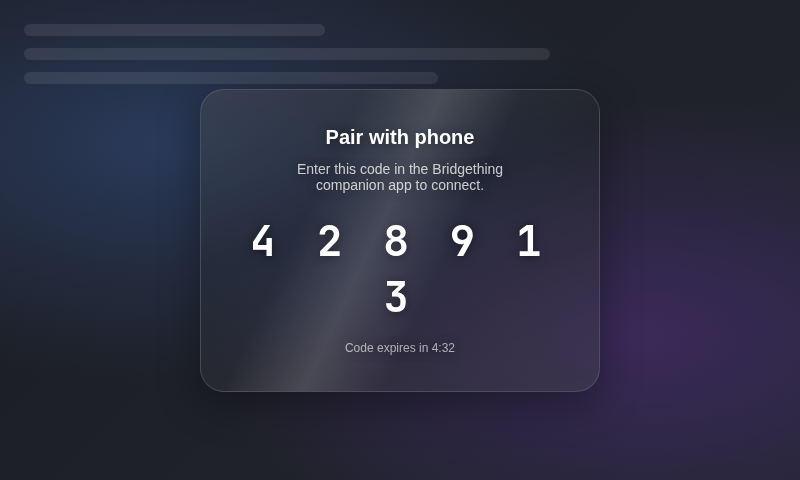
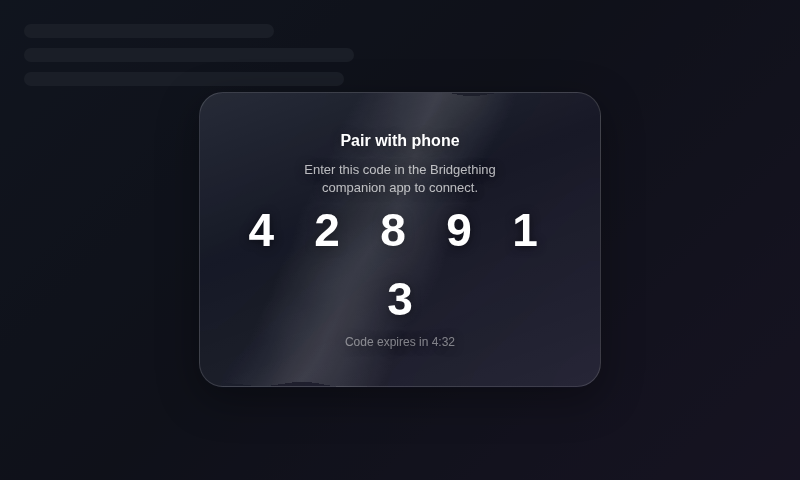
Glassy Overlay 0.3.40: real frosted glass, background determines color

diff --git a/apps/glass-overlay/overlay/style.css b/apps/glass-overlay/overlay/style.css
@@ -15,20 +15,21 @@
    @property var that stays unset in the shadow root, rendering no border) */
 .forecast-box { border: 1px solid rgb(255 255 255 / 0.12); }
 
-/* liquid glass: Finch HUD recipe — 160° white gradient over a fill whose
-   opacity grows with the frostiness level (transparency decreases as
-   frostiness goes up), hairline border, and specular sheen (::after)
-   warped by the #fx-glass-wobble SVG filter injected into the shadow root
-   at boot. No backdrop blur. Intensity comes from CSS custom properties
-   set on the overlay root container by the frostiness setting; the
-   fallbacks below are the Frosted (2) look. Plain var() only — never
-   @property (see note above). */
+/* liquid glass: real frosted glass — backdrop blur diffuses the background
+   and the blurred background itself determines the color (no tint wash);
+   a slight brightness lift keeps it airy. 160° white gradient, hairline
+   border, and specular sheen (::after) warped by the #fx-glass-wobble SVG
+   filter injected into the shadow root at boot. Intensity comes from CSS
+   custom properties set on the overlay root container by the frostiness
+   setting; the fallbacks below are the Frosted (2) look. Plain var() only
+   — never @property (see note above). */
 .glass-card {
   position: relative;
   overflow: hidden;
+  -webkit-backdrop-filter: blur(var(--glass-blur, 20px)) brightness(var(--glass-bright, 1.08)) saturate(1.4);
+  backdrop-filter: blur(var(--glass-blur, 20px)) brightness(var(--glass-bright, 1.08)) saturate(1.4);
   background:
-    linear-gradient(160deg, rgb(255 255 255 / var(--glass-sheen, 0.10)), rgb(255 255 255 / calc(var(--glass-sheen, 0.10) * 0.3)) 40%, rgb(255 255 255 / calc(var(--glass-sheen, 0.10) * 0.8))),
-    rgb(18 20 26 / var(--glass-fill, 0.30));
+    linear-gradient(160deg, rgb(255 255 255 / var(--glass-sheen, 0.10)), rgb(255 255 255 / calc(var(--glass-sheen, 0.10) * 0.3)) 40%, rgb(255 255 255 / calc(var(--glass-sheen, 0.10) * 0.8)));
   border: 1px solid rgb(255 255 255 / var(--glass-border, 0.14));
   box-shadow: 0 12px 40px rgb(0 0 0 / 0.35);
   text-shadow: 0 1px 10px rgb(0 0 0 / 0.55);
@@ -37,9 +38,10 @@
 .glass-pill {
   position: relative;
   overflow: hidden;
+  -webkit-backdrop-filter: blur(var(--glass-blur, 20px)) brightness(var(--glass-bright, 1.08)) saturate(1.4);
+  backdrop-filter: blur(var(--glass-blur, 20px)) brightness(var(--glass-bright, 1.08)) saturate(1.4);
   background:
-    linear-gradient(160deg, rgb(255 255 255 / var(--glass-sheen, 0.10)), rgb(255 255 255 / calc(var(--glass-sheen, 0.10) * 0.3)) 40%, rgb(255 255 255 / calc(var(--glass-sheen, 0.10) * 0.8))),
-    rgb(18 20 26 / var(--glass-fill, 0.30));
+    linear-gradient(160deg, rgb(255 255 255 / var(--glass-sheen, 0.10)), rgb(255 255 255 / calc(var(--glass-sheen, 0.10) * 0.3)) 40%, rgb(255 255 255 / calc(var(--glass-sheen, 0.10) * 0.8)));
   border: 1px solid rgb(255 255 255 / var(--glass-border, 0.14));
   box-shadow: 0 8px 28px rgb(0 0 0 / 0.32);
   text-shadow: 0 1px 8px rgb(0 0 0 / 0.55);

diff --git a/apps/glass-overlay/overlay/main.tsx b/apps/glass-overlay/overlay/main.tsx
@@ -499,16 +499,15 @@ const FROST_DEFAULT = 2;
 const FROST_MIN = 0;
 const FROST_MAX = 3;
 
-// [tint alpha, card blur px, pill blur px] per frostiness level
-// Frostiness: transparency decreases as the level goes up (like Finch's
-// volume HUD) — the fill gets more solid. No backdrop blur.
-// [fill, sheen, border, highlight] — fill opacity, 160° gradient opacity,
-// hairline border opacity, ::after specular highlight opacity.
-const FROST_MAP: Array<[number, number, number, number]> = [
-  [0.05, 0.03, 0.06, 0.05], // Clear — almost fully transparent
-  [0.15, 0.06, 0.10, 0.09], // Light — slightly solid
-  [0.30, 0.10, 0.14, 0.14], // Frosted — medium fill
-  [0.50, 0.16, 0.22, 0.22], // Extra — quite solid
+// Frostiness: real frosted glass — backdrop blur does the work, and the
+// blurred background itself determines the color (no white tint wash).
+// A slight brightness lift keeps it airy. Higher levels = more blur.
+// [blurPx, brightness, sheen, border, highlight]
+const FROST_MAP: Array<[number, number, number, number, number]> = [
+  [0, 1.0, 0.03, 0.06, 0.05],  // Clear — no blur, barely there
+  [8, 1.05, 0.06, 0.10, 0.09], // Light — slight blur
+  [20, 1.08, 0.10, 0.14, 0.14],// Frosted — the reference look
+  [32, 1.12, 0.16, 0.22, 0.22],// Extra — heavy frost
 ];
 
 function clampFrost(n: number): number {
@@ -1312,9 +1311,10 @@ function Overlay({ cfg, client }: { cfg: OverlayConfig; client: BridgethingClien
   };
 
   const frost = useGlassFrost();
-  const [fill, sheen, border, highlight] = FROST_MAP[frost];
+  const [blur, bright, sheen, border, highlight] = FROST_MAP[frost];
   const glassVars = {
-    '--glass-fill': String(fill),
+    '--glass-blur': `${blur}px`,
+    '--glass-bright': String(bright),
     '--glass-sheen': String(sheen),
     '--glass-border': String(border),
     '--glass-highlight': String(highlight),

diff --git a/apps/glass-overlay/CHANGELOG.md b/apps/glass-overlay/CHANGELOG.md
@@ -1,5 +1,19 @@
 # Glassy Overlay
 
+## 0.3.40
+
+- Removed the white tint wash: the blurred background now determines the
+  glass color (dark backgrounds stay dark, bright ones stay bright), with
+  only a slight brightness lift to keep it airy. The four levels scale
+  blur (0/8/20/32px) plus sheen/border/highlight intensity.
+
+## 0.3.39
+
+- Frosted glass redone from reference: backdrop blur is back, paired with a
+  light, airy white tint (not the dark fill). The four levels now scale blur
+  + tint together — Clear (0px), Light (8px), Frosted (20px), Extra (32px) —
+  alongside the sheen/border/highlight intensity.
+
 ## 0.3.38
 
 - Updated store metadata (full settings description) and refreshed all five
